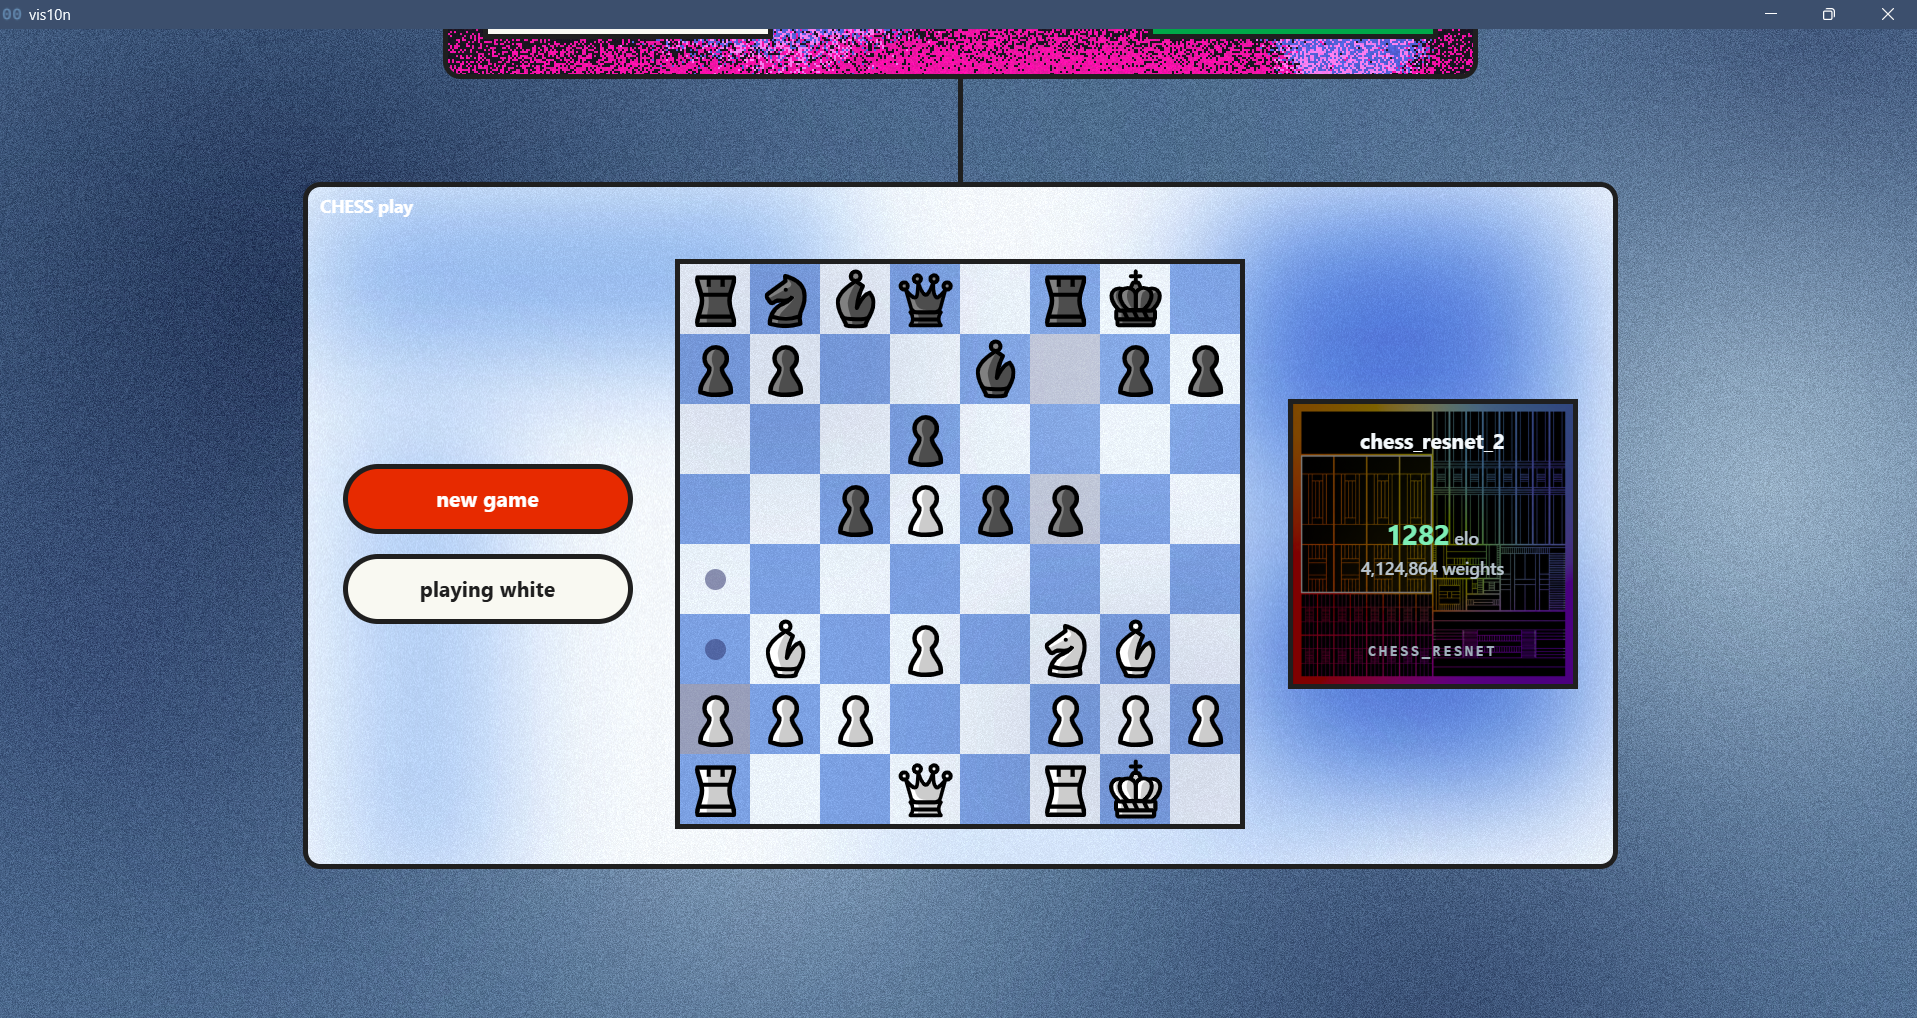
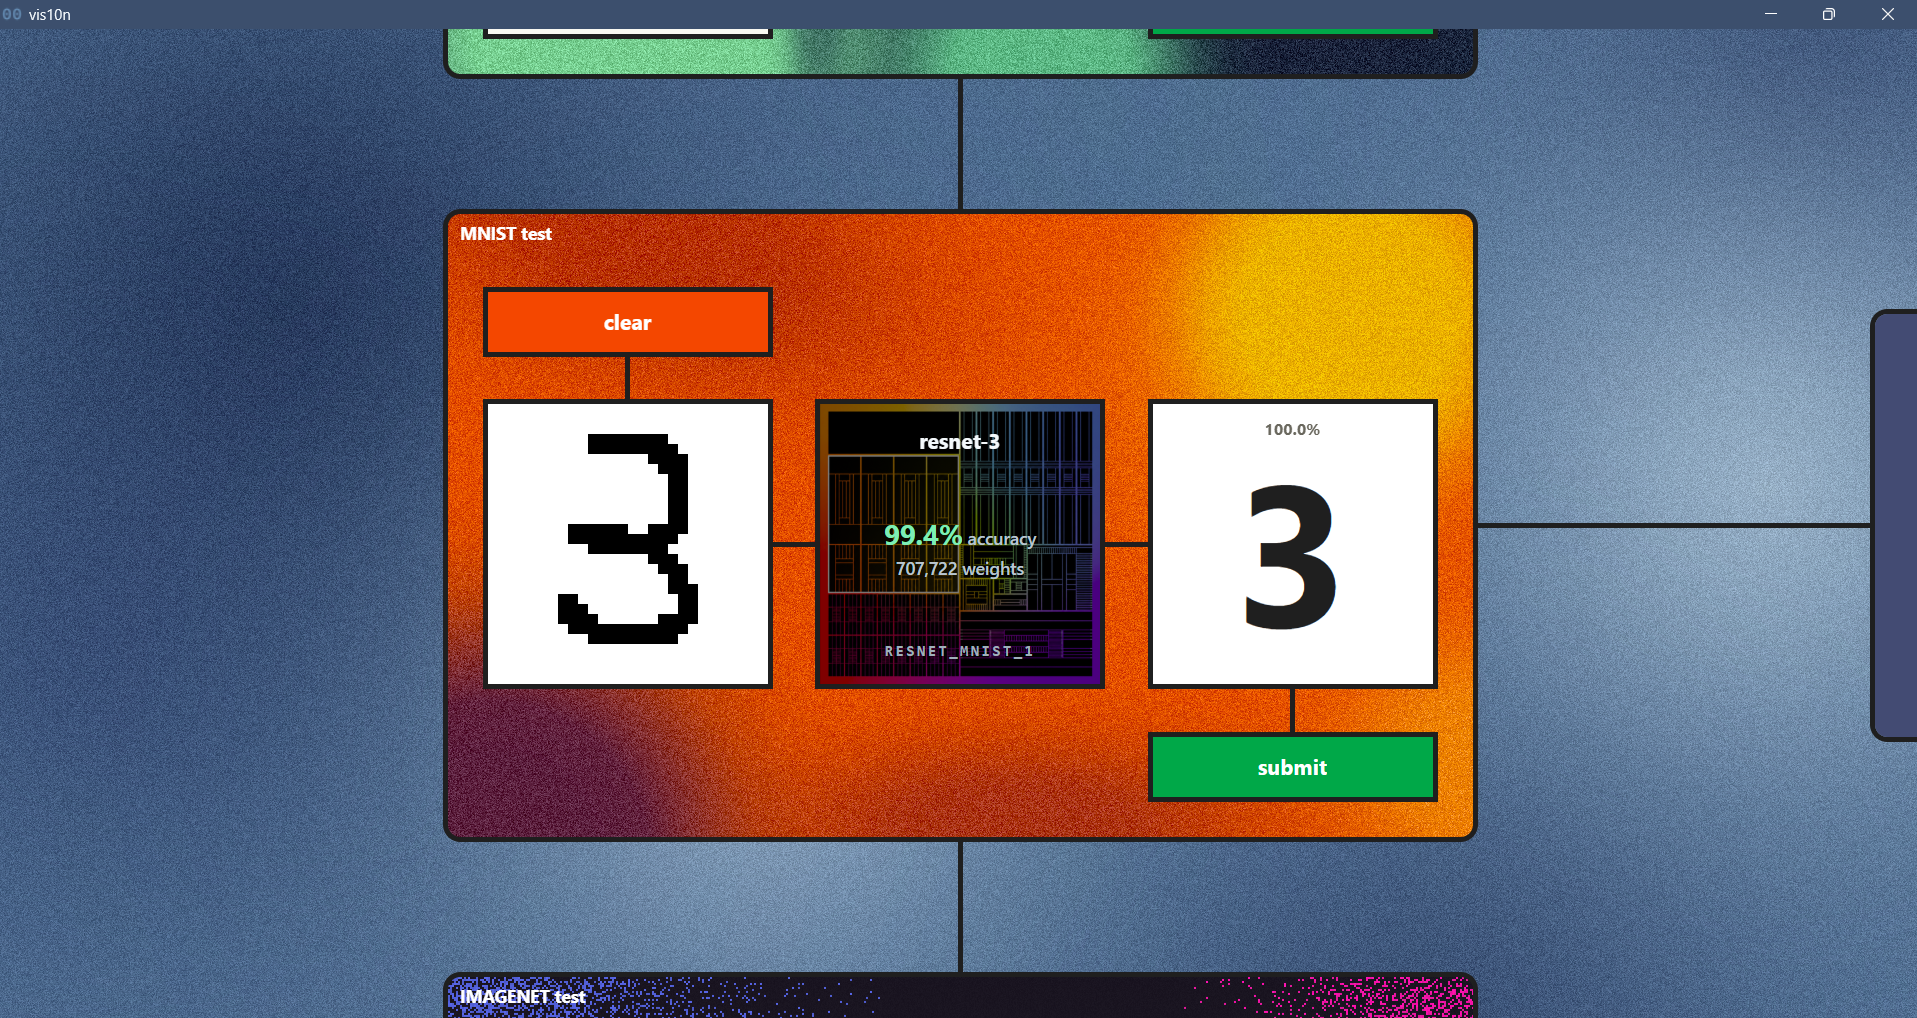
Fixed screenshot naming for readme

diff --git a/README.md b/README.md
@@ -4,8 +4,8 @@
   <img src="assets/screenshots/screenshot2.png" width="49%">
 </p>
 <p>
-  <img src="assets/screenshots/screenshot3.png" width="49%">
   <img src="assets/screenshots/screenshot4.png" width="49%">
+  <img src="assets/screenshots/screenshot6.png" width="49%">
 </p>
 This project is my playground for messing with training and running different types of neural networks, so far including MNIST digit classification, CIFAR image classification, and chess policy models (playing the next move).
 Parts of the model code are based off the ARENA (https://arena.education) courses implementation.
